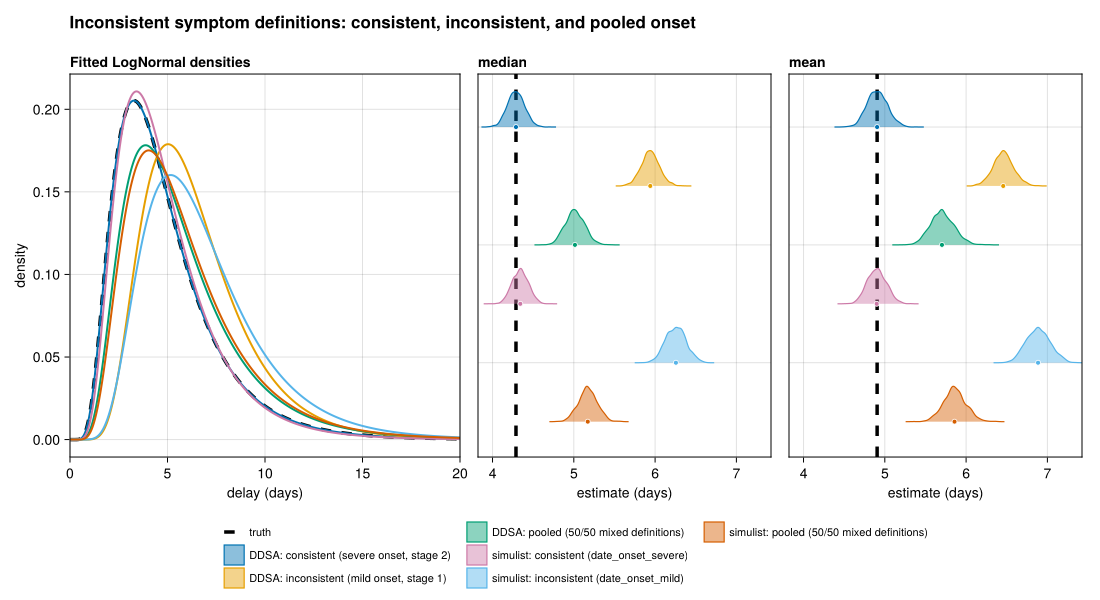
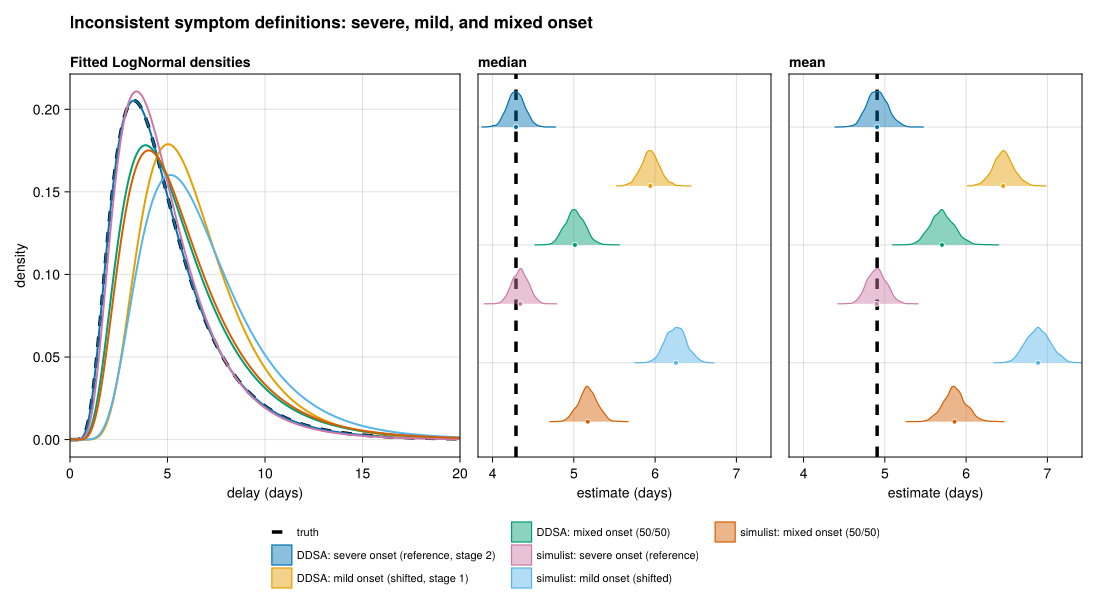
Change in the wording of the quarto documents on inconsistent symptom definition issue

Changed region(s): [[0.1855, 0.87, 0.8345, 0.99], [0.3091, 0.03, 0.6491, 0.06]]

diff --git a/Julia/issue_symptom_definition/issue_symptom_definition.md b/Julia/issue_symptom_definition/issue_symptom_definition.md
@@ -28,10 +28,11 @@ symptom onset row detailed in Table 1 of the manuscript. When the term
 onset can refer to any of several symptoms emerging at different times,
 the choice of which symptom to record functions identically to a formal
 change in definition. Here, the analysis contrasts three clinical
-anchors: a consistent definition based on severe onset (the metric used
-to generate the baseline data), an inconsistent definition based on the
-earlier mild onset, and a pooled line list that aggregates the two
-definitions in equal proportions.
+anchors: severe onset, the definition used to generate the baseline data
+and so the reference; the earlier mild onset, a uniform but different
+anchor that shifts the whole delay distribution rather than making any
+single record inconsistent; and a pooled line list that mixes the two
+definitions in equal proportions, the genuinely inconsistent case.
 
 ## Methods
 
@@ -41,16 +42,19 @@ onset (`date_onset_mild`) and a later severe, case-defining onset
 the onset-to-admission delay under three choices of which onset the
 analysis treats as the start of illness:
 
-- **Consistent definition:** delay =
-  `date_admission − date_onset_severe`.
-- **Inconsistent definition:** delay =
-  `date_admission − date_onset_mild` (the earlier onset).
-- **Pooled definition:** each case independently uses severe or mild
+- **Severe onset (reference):** delay =
+  `date_admission − date_onset_severe`, the definition used to generate
+  the data.
+- **Mild onset (shifted):** delay = `date_admission − date_onset_mild`
+  (the earlier onset). This is a uniform but different anchor than the
+  reference, so the whole delay distribution is shifted rather than made
+  internally inconsistent.
+- **Mixed onset (50/50):** each case independently uses severe or mild
   onset (50/50), modelling a line list that pools records from teams
-  applying different definitions. This demonstrates the “complicates
-  pooling” failure mode, where an intermediate, biased central estimate
-  with inflated dispersion (a mixture of the two delay distributions) is
-  obtained.
+  applying different definitions. This is the genuinely inconsistent
+  case and demonstrates the “complicates pooling” failure mode, where an
+  intermediate, biased central estimate with inflated dispersion (a
+  mixture of the two delay distributions) is obtained.
 
 In the `simulist` pipeline the mild onset is already present in the
 baseline line list: the R script samples
@@ -188,9 +192,9 @@ est_ddsa_mild   = fit_pcd(ddsa_mild;   seed = SEED + 1)
 est_ddsa_pooled = fit_pcd(ddsa_pooled; seed = SEED + 10)
 
 estimates = [est_ddsa_severe, est_ddsa_mild, est_ddsa_pooled]
-labels = ["DDSA: consistent (severe onset, stage 2)",
-          "DDSA: inconsistent (mild onset, stage 1)",
-          "DDSA: pooled (50/50 mixed definitions)"]
+labels = ["DDSA: severe onset (reference, stage 2)",
+          "DDSA: mild onset (shifted, stage 1)",
+          "DDSA: mixed onset (50/50)"]
 ```
 
 ## simulist branch (aligned baseline columns)
@@ -209,9 +213,9 @@ if !isnothing(ll_sim)
     push!(estimates, fit_pcd(sim_severe; seed = SEED + 2))
     push!(estimates, fit_pcd(sim_mild;   seed = SEED + 3))
     push!(estimates, fit_pcd(sim_pooled; seed = SEED + 12))
-    push!(labels, "simulist: consistent (date_onset_severe)")
-    push!(labels, "simulist: inconsistent (date_onset_mild)")
-    push!(labels, "simulist: pooled (50/50 mixed definitions)")
+    push!(labels, "simulist: severe onset (reference)")
+    push!(labels, "simulist: mild onset (shifted)")
+    push!(labels, "simulist: mixed onset (50/50)")
 else
     @warn "Skipping simulist branch — DDSA-only figure"
 end
@@ -219,14 +223,13 @@ end
 
 ## Figure
 
-Truth is the consistent-definition (severe onset) fit on undegraded
-data.
+Truth is the severe-onset (reference) fit on undegraded data.
 
 ``` julia
 fig = comparison_figure(
     estimates, labels;
     truth = (meanlog = est_ddsa_severe.dist.μ, sdlog = est_ddsa_severe.dist.σ),
-    title = "Inconsistent symptom definitions: consistent, inconsistent, and pooled onset",
+    title = "Inconsistent symptom definitions: severe, mild, and mixed onset",
 )
 save(OUT_PATH, fig)
 fig
@@ -264,32 +267,32 @@ definition each record used.
 
 ## Estimates
 
-    ┌ Info: DDSA: consistent (severe onset, stage 2)
+    ┌ Info: DDSA: severe onset (reference, stage 2)
     │   n = 500
     │   median = (4.288551871476503, 4.0915424426910825, 4.493250735926015)
     │   mean = (4.905319627863075, 4.676931800010813, 5.165765565403016)
     └   sd = (2.7245801444790514, 2.464871780860387, 3.021177568766752)
-    ┌ Info: DDSA: inconsistent (mild onset, stage 1)
+    ┌ Info: DDSA: mild onset (shifted, stage 1)
     │   n = 500
     │   median = (5.940746489969326, 5.723893966206184, 6.168520787911174)
     │   mean = (6.4567869278263625, 6.213314905699762, 6.715584376776864)
     └   sd = (2.7478639122156823, 2.525482648269106, 3.0241536084046454)
-    ┌ Info: DDSA: pooled (50/50 mixed definitions)
+    ┌ Info: DDSA: mixed onset (50/50)
     │   n = 500
     │   median = (5.013908855955018, 4.794283164958679, 5.251024683984876)
     │   mean = (5.703080973711887, 5.440888986598865, 6.009924917757569)
     └   sd = (3.098692160256194, 2.79121062379936, 3.4697512683504472)
-    ┌ Info: simulist: consistent (date_onset_severe)
+    ┌ Info: simulist: severe onset (reference)
     │   n = 500
     │   median = (4.342158317766912, 4.148943384049939, 4.536946842744401)
     │   mean = (4.899806224636079, 4.681707411443766, 5.133810938935199)
     └   sd = (2.5662685648098247, 2.330619166180114, 2.841815004818032)
-    ┌ Info: simulist: inconsistent (date_onset_mild)
+    ┌ Info: simulist: mild onset (shifted)
     │   n = 500
     │   median = (6.256060337657827, 6.016491316995573, 6.504871078875189)
     │   mean = (6.885150267372407, 6.617604231972806, 7.17922833347427)
     └   sd = (3.1697782790703526, 2.9012584775565835, 3.499652118309974)
-    ┌ Info: simulist: pooled (50/50 mixed definitions)
+    ┌ Info: simulist: mixed onset (50/50)
     │   n = 500
     │   median = (5.171350841519244, 4.95086032962797, 5.397138606979933)
     │   mean = (5.857624218637, 5.5937436394865605, 6.138243747330913)